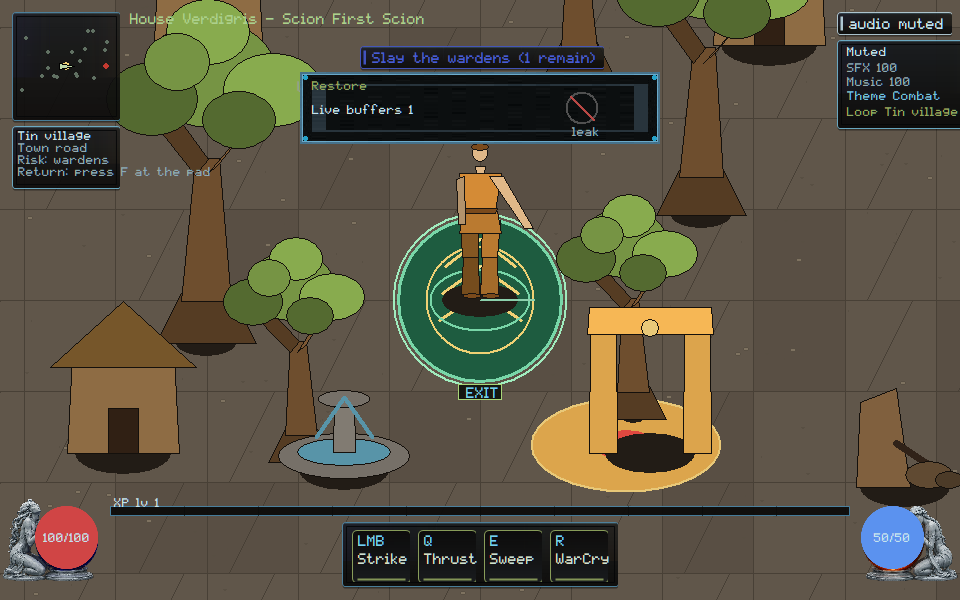
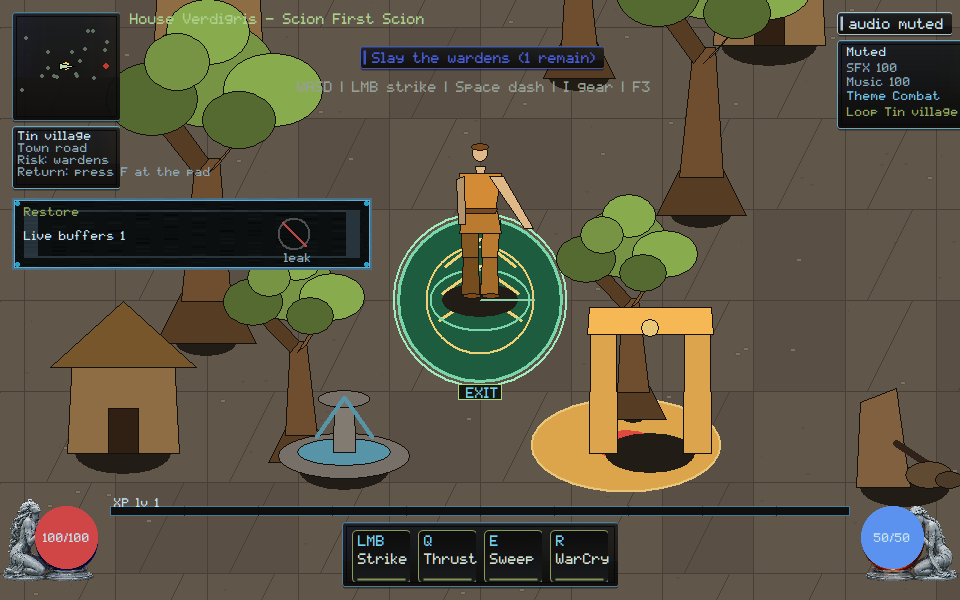
native: park Restore off WASD and Tin village so covering combat HUD cannot certify

Changed region(s): [[0.0, 0.33, 0.4062, 0.45], [0.3125, 0.12, 0.6875, 0.24]]

diff --git a/native/client/main.cpp b/native/client/main.cpp
@@ -6682,8 +6682,12 @@ void paint_recover_review_strip(ClientState& state, HDC dc, const RECT& bounds,
   const int s = hud_scale(static_cast<int>(bounds.bottom));
   const int pane_w = 360 * s;
   const int pane_h = 72 * s;
-  const int left = (static_cast<int>(bounds.right) - pane_w) / 2;
-  const int top = 72 * s;
+  const HudRect parked =
+      park_review_strip(state, static_cast<int>(bounds.right),
+                        static_cast<int>(bounds.bottom), pane_w, pane_h);
+  const int left = parked.x;
+  const int top = parked.y;
+  state.hud_rect_trace.push_back({"recover-strip", parked});
   RECT pane{left, top, left + pane_w, top + pane_h};
   if (!draw_framekit_nine(state.billboards, dc, state.billboards.fk_panel, pane))
     skin::panel(dc, pane, skin::kVerdigris, 235, 8.0f);
@@ -6692,7 +6696,7 @@ void paint_recover_review_strip(ClientState& state, HDC dc, const RECT& bounds,
   SetBkMode(dc, TRANSPARENT);
   HGDIOBJ old_font = SelectObject(dc, skin::font_small());
   SetTextColor(dc, skin::kVerdigris);
-  const char* title = "Restore";
+  const char* title = verdigris::gpu::owner_restore_label();
   TextOutA(dc, left + 12 * s, top + 8 * s, title, static_cast<int>(strlen(title)));
   SetTextColor(dc, skin::kInk);
   const char* live = verdigris::gpu::owner_live_buffers_label();
@@ -15289,6 +15293,31 @@ int scenario_gpu_recover() {
   for (const auto& item : capture.render_list)
     if (item.op == render::Op::Hud && item.label == "recover:live-1") live_hud = true;
   scenario_check(live_hud, "gpu-recover: live HUD names Live buffers 1");
+  {
+    auto trace_find = [](const ClientState& s,
+                         const char* label) -> const HudRect* {
+      for (const auto& entry : s.hud_rect_trace)
+        if (entry.first == label) return &entry.second;
+      return nullptr;
+    };
+    const HudRect* recover = trace_find(capture, "recover-strip");
+    scenario_check(recover != nullptr, "gpu-recover: Restore strip is traced");
+    const HudRect* ctrl = trace_find(capture, "controls");
+    const HudRect* objective = trace_find(capture, "objective");
+    const HudRect* route_card = trace_find(capture, "route-card");
+    const HudRect* life = trace_find(capture, "orb-life");
+    const bool covers =
+        (recover && ctrl && hud_rects_overlap(*recover, *ctrl)) ||
+        (recover && objective && hud_rects_overlap(*recover, *objective)) ||
+        (recover && route_card && hud_rects_overlap(*recover, *route_card)) ||
+        (recover && life && hud_rects_overlap(*recover, *life));
+    scenario_check(
+        verdigris::gpu::recover_strip_covers_hud_fails_review(true),
+        "gpu-recover: covering WASD, the objective, Tin village, or Life is the anti-pattern");
+    scenario_check(
+        !verdigris::gpu::recover_strip_covers_hud_fails_review(covers),
+        "gpu-recover: Restore stays off WASD, the objective, Tin village, and Life");
+  }
   const int restored_generation = gpu.generation;
   scenario_check(!gpu.recreate(verdigris::gpu::Backend::Software, 0, 0) &&
                      gpu.live_buffers == 0 && gpu.error_visible &&

diff --git a/native/renderer/gpu/recover-renderer-resource-loss.hpp b/native/renderer/gpu/recover-renderer-resource-loss.hpp
@@ -51,7 +51,11 @@ inline bool leaked_buffers_fail_review(int live_buffers) {
   return live_buffers != 1;
 }
 
+inline const char* owner_restore_label() { return "Restore"; }
 inline const char* owner_live_buffers_label() { return "Live buffers 1"; }
+inline bool recover_strip_covers_hud_fails_review(bool overlap) {
+  return overlap;
+}
 
 // A restored buffer is not the isolated sample still. The L-bracket marks
 // that this pixels object survived recreate; gpu-sample has no mark.

diff --git a/docs/execution/CROSSWALK.md b/docs/execution/CROSSWALK.md
@@ -52,7 +52,7 @@ Cursor evidence notes.
 | VG-GPU-005 | new | Y-sort + Sweep overlay on the village gate (`grounding`); HUD or capture-black cannot certify; walls cannot erase warnings; Y-sort stays off WASD/objective/Tin village/Life |
 | VG-GPU-006 | new | moving bronze lantern pool on the village gate (`material-light`); HUD without a pool cannot certify; cannot wash out damage; Lantern pool stays off WASD/objective/Tin village/Life |
 | VG-GPU-007 | new | BMP readback + provenance (`gpu-capture`); PNG R/B swap cannot certify; packet logs are not pixels; Pixel capture stays off WASD/objective/Tin village/Life |
-| VG-GPU-008 | new | sample recreate/resize (`gpu-recover`); restored BMP stamped; Live buffers 1; leak cannot certify |
+| VG-GPU-008 | new | sample recreate/resize (`gpu-recover`); restored BMP stamped; Live buffers 1; leak cannot certify; Restore stays off WASD/objective/Tin village/Life |
 | VG-PERF-001/002/008 | extend | TASK-0152, 0207; 008 Owner Demo — do not duplicate |
 | VG-PERF-003–006 | new / extend 0207 | GDI batch, envelope, loot labels, hitch warmup |
 | VG-PERF-007 | new | 32-cycle present/effect/resize soak (`memory-soak`); short scene fails |
@@ -252,8 +252,10 @@ village, and Life. Covering those combat surfaces cannot certify.
 Evidence `docs/execution/evidence/VG-GPU-007.json`.
 VG-GPU-008: recreate/resize/minimize-restore keep one live buffer; the
 restored BMP carries an L-bracket survival mark (hash diverges from
-`gpu-sample`). Live HUD paints Live buffers 1; leak cannot certify.
-Failure surfaces `gpu-error:recreate`. Scenario `gpu-recover`. Evidence
+`gpu-sample`). Owner strip paints Restore / Live buffers 1 and parks off
+WASD, the objective, Tin village, and Life. Covering those combat
+surfaces cannot certify. Leak cannot certify. Failure surfaces
+`gpu-error:recreate`. Scenario `gpu-recover`. Evidence
 `docs/execution/evidence/VG-GPU-008.json`.
 VG-SOUND-001: software tone adapter plays a generated PCM burst and shuts
 down. Live HUD paints Adapter software / Tone 440 Hz and parks off WASD,

diff --git a/docs/execution/CROSSWALK_REGISTRY.md b/docs/execution/CROSSWALK_REGISTRY.md
@@ -126,7 +126,7 @@ not implemented here.
 | VG-GPU-005 | G2 | new | grounding Y-sort stays off WASD/objective/Tin village/Life |
 | VG-GPU-006 | G3 | new | material-light Lantern pool stays off WASD/objective/Tin village/Life |
 | VG-GPU-007 | G2 | new | gpu-capture Pixel capture stays off WASD/objective/Tin village/Life |
-| VG-GPU-008 | G3 | new | gpu-recover |
+| VG-GPU-008 | G3 | new | gpu-recover Restore stays off WASD/objective/Tin village/Life |
 | VG-ART-001 | G1 | extend | visual-target Adult camera stays off WASD/objective/Tin village/Life; first-fight Jointed warden stays off WASD/objective/Tin village/Life; zoom-invariance Uniform pan stays off WASD/objective/Tin village/Life; move-and-camera Kit lock stays off WASD/objective/Tin village/Life |
 | VG-ART-002 | G2 | extend | bronze-stone family |
 | VG-ART-003 | G2 | extend | attack-poses Strike poses stays off WASD/objective/Tin village/Life; combat-juice Hit flash stays off WASD/objective/Tin village/Life; not TASK-0108 |

diff --git a/orchestration/CURSOR_KIMI_LANES.md b/orchestration/CURSOR_KIMI_LANES.md
@@ -1376,3 +1376,15 @@ Please move off that branch before taking a new native path.
   remain yours. GOV-002 still unstamped.
   Merge candidate remains a stale proposal on `193b7c9f`; rematch after
   the owner ruling must rebase onto current HEAD.
+
+## Cursor reply (2026-09-06, Restore off WASD and Tin village)
+
+- **Lease:** `main.cpp` still **ACTIVE**. `remote_session.cpp` stays
+  **RELEASED**. Do not re-spec TASK-0108 core/wire (`3b929637`).
+- **Landed this push:** VG-GPU-008/007 — Restore parks off WASD, the
+  objective, Tin village, and Life. Covering those cannot certify. Leak
+  still rejected. Captures viewed. Not Owner Demo.
+- **Stay off** `native/client/main.cpp` and `docs/execution/**`. SEC/CORE
+  remain yours. GOV-002 still unstamped.
+  Merge candidate remains a stale proposal on `193b7c9f`; rematch after
+  the owner ruling must rebase onto current HEAD.

diff --git a/docs/rebuild/HANDOFF.md b/docs/rebuild/HANDOFF.md
@@ -1,5 +1,15 @@
 # Native reconstitution handoff
 
+## 2026-09-06 — Restore off WASD and Tin village (Cursor)
+
+- VG-GPU-008 / VG-UI-007: Restore / Live buffers 1 parks off WASD, the
+  objective, Tin village, and Life. Covering those combat surfaces
+  cannot certify. Leak still rejected. Owner Demo journeys not
+  duplicated. Quad BMP and report txt not recaptured.
+- Scenario `gpu-recover` PASS. Capture viewed. Not Owner Demo. Not
+  TASK-0108.
+
+
 ## 2026-09-06 — Adapter software off WASD and Tin village (Cursor)
 
 - VG-SOUND-001 / VG-UI-007: Adapter software / Tone 440 Hz parks off WASD,
